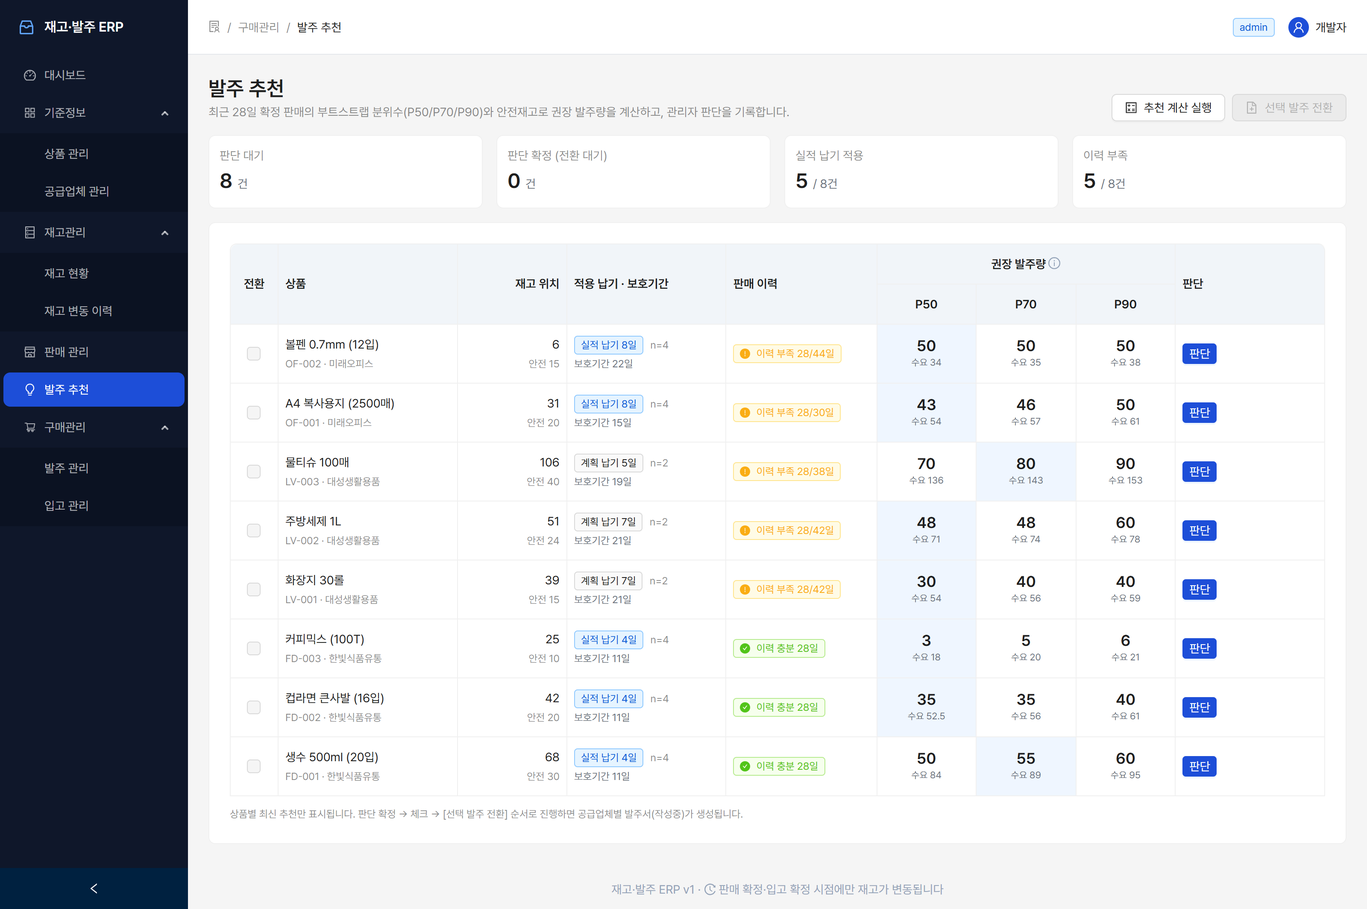
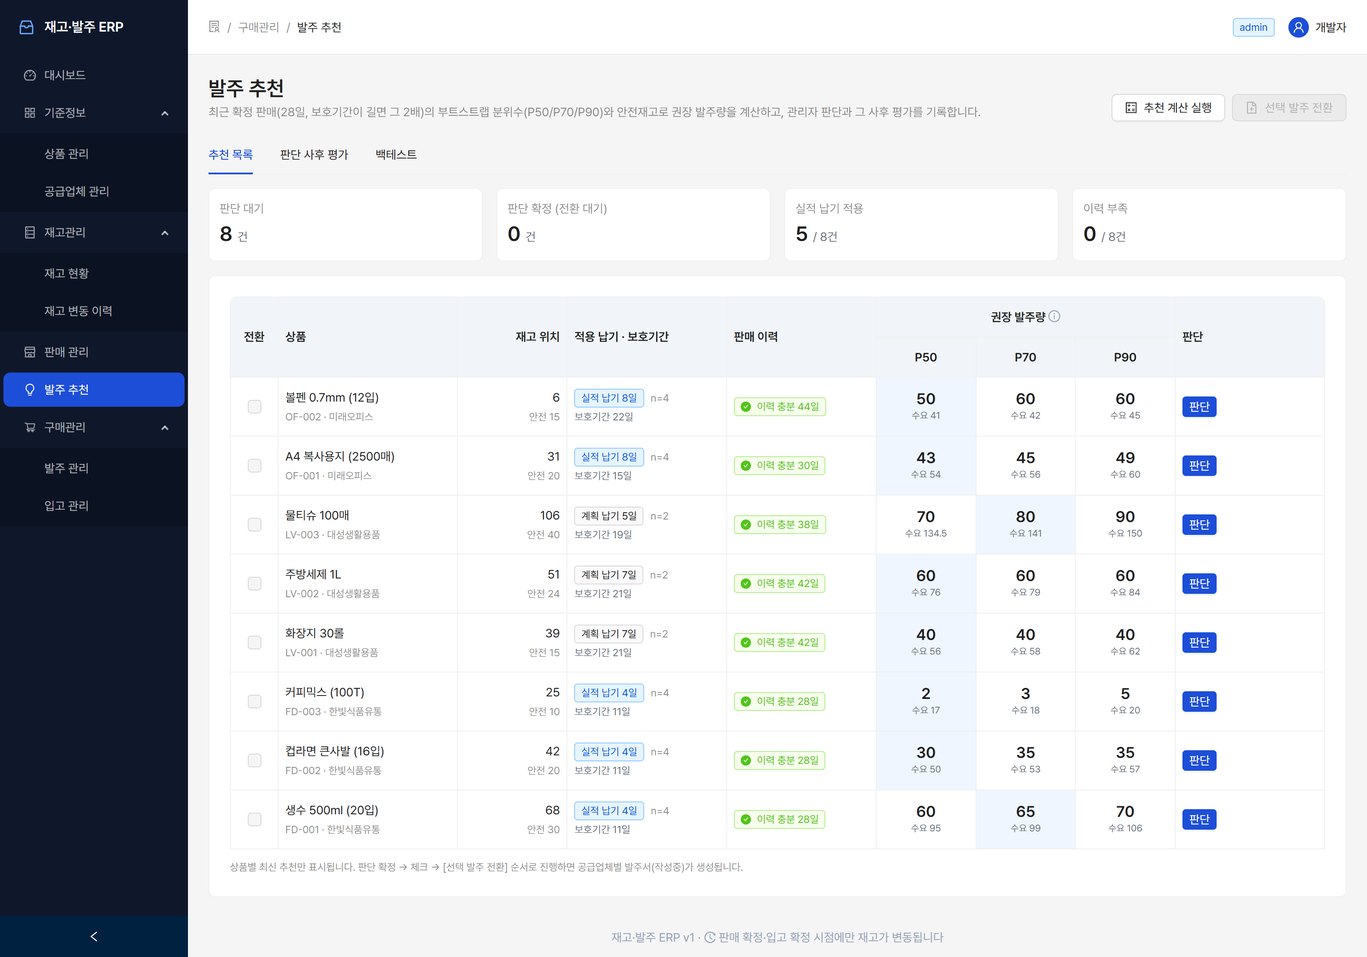
백테스트 기능 추가 (과거 기준일별 재계산 → 실제 수요와 비교)
- POST /api/recommendations/backtest: 기준일마다 그 전날까지의 판매와 그 이전 입고 실적만으로
  수요 분위수를 다시 계산(미래 정보 미사용)하고, 보호기간 동안의 실제 판매량과 비교. 읽기 전용
- 전략별 요약: 분위수 적중률(명목 대비), 목표재고 충족률(서비스 수준), 평균 부족·과잉량, MAE
- 화면: 발주 추천 '백테스트' 탭
- 검증 9개 항목 추가 (미래 정보 차단, 재현성, 읽기 전용 등, 총 153개)
- 발표용 캡처 최신 화면으로 교체

diff --git a/erp-frontend/src/components/BacktestPanel.jsx b/erp-frontend/src/components/BacktestPanel.jsx
@@ -1,0 +1,114 @@
+import { useState } from 'react';
+import { Alert, App, Button, Card, DatePicker, Flex, InputNumber, Table, Tag, Tooltip, Typography } from 'antd';
+import { ExperimentOutlined, InfoCircleOutlined } from '@ant-design/icons';
+import dayjs from 'dayjs';
+import { api } from '../api/client';
+import { fmtNum } from '../utils';
+
+const fmtPct = (v) => (v === null || v === undefined ? '-' : `${Number(v).toFixed(1)}%`);
+const fmtDec = (v) => (v === null || v === undefined ? '-' : Number(v).toLocaleString('ko-KR', { maximumFractionDigits: 2 }));
+
+// 백테스트 탭: 과거 기준일마다 그 시점까지의 정보만으로 수요 분위수를 다시 계산해 실제 수요와 비교 (읽기 전용)
+export default function BacktestPanel() {
+  const { message } = App.useApp();
+  const [range, setRange] = useState([dayjs().subtract(35, 'day'), dayjs().subtract(8, 'day')]);
+  const [step, setStep] = useState(3);
+  const [running, setRunning] = useState(false);
+  const [result, setResult] = useState(null);
+
+  const run = async () => {
+    setRunning(true);
+    try {
+      setResult(await api.post('/recommendations/backtest', {
+        from: range[0].format('YYYY-MM-DD'),
+        to: range[1].format('YYYY-MM-DD'),
+        step_days: step,
+      }));
+    } catch (err) {
+      message.error(err.message);
+    } finally {
+      setRunning(false);
+    }
+  };
+
+  const summaryRows = result ? ['p50', 'p70', 'p90'].map((k) => ({ key: k, strategy: k.toUpperCase(), ...result.summary[k] })) : [];
+  const summaryColumns = [
+    { title: '전략', dataIndex: 'strategy', width: 80, render: (v) => <Tag color="geekblue">{v}</Tag> },
+    { title: '사례 수', dataIndex: 'cases', width: 80, align: 'right', render: fmtNum },
+    {
+      title: <Tooltip title="실제 수요 ≤ 예측 분위수인 비율. 명목값(50·70·90%)에 가까울수록 예측이 잘 보정된 것">분위수 적중률 <InfoCircleOutlined style={{ color: '#94a3b8' }} /></Tooltip>,
+      key: 'demand', width: 160, align: 'right',
+      render: (_, r) => <>{fmtPct(r.demand_coverage_pct)} <Typography.Text type="secondary" style={{ fontSize: 12 }}>(명목 {r.nominal_pct}%)</Typography.Text></>,
+    },
+    {
+      title: <Tooltip title="실제 수요 ≤ 목표재고(예측 + 안전재고)인 비율. 목표재고까지 채웠다면 품절이 없었을 비율(서비스 수준)">목표재고 충족률 <InfoCircleOutlined style={{ color: '#94a3b8' }} /></Tooltip>,
+      dataIndex: 'target_coverage_pct', width: 140, align: 'right', render: (v) => <b>{fmtPct(v)}</b>,
+    },
+    { title: '평균 부족량', dataIndex: 'avg_shortage', width: 110, align: 'right', render: fmtDec },
+    { title: '평균 과잉량', dataIndex: 'avg_excess', width: 110, align: 'right', render: fmtDec },
+    { title: '수요 예측 평균 절대 오차', dataIndex: 'mae_demand', width: 170, align: 'right', render: fmtDec },
+  ];
+
+  const caseColumns = [
+    { title: '기준일', dataIndex: 'as_of', width: 105 },
+    { title: '상품', key: 'p', render: (_, c) => <span style={{ whiteSpace: 'nowrap' }}>{c.product_name}</span> },
+    {
+      title: '납기·보호기간', key: 'lt', width: 150,
+      render: (_, c) => <>{c.lead_time_source === 'actual_supplier_avg' ? '실적' : '계획'} {c.applied_lead_time_days}일 · {c.protection_days}일</>,
+    },
+    { title: '이력', key: 'h', width: 90, render: (_, c) => (c.insufficient_history ? <Tag color="warning">부족 {c.available_days}일</Tag> : `${c.available_days}일`) },
+    { title: 'P50', key: 'p50', width: 70, align: 'right', render: (_, c) => fmtDec(c.strategies.p50.demand) },
+    { title: 'P70', key: 'p70', width: 70, align: 'right', render: (_, c) => fmtDec(c.strategies.p70.demand) },
+    { title: 'P90', key: 'p90', width: 70, align: 'right', render: (_, c) => fmtDec(c.strategies.p90.demand) },
+    { title: '실제 수요', dataIndex: 'actual_demand', width: 90, align: 'right', render: (v) => <b>{fmtNum(v)}</b> },
+    {
+      title: '목표재고 충족 (P50·P70·P90)', key: 'cov', width: 210,
+      render: (_, c) => ['p50', 'p70', 'p90'].map((k) => (
+        <Tag key={k} color={c.strategies[k].target_covered ? 'green' : 'red'}>{k.toUpperCase()} {c.strategies[k].target_covered ? '충족' : `부족 ${fmtDec(c.strategies[k].shortage)}`}</Tag>
+      )),
+    },
+  ];
+
+  return (
+    <>
+      <Card style={{ marginBottom: 16 }}>
+        <Flex gap={16} align="center" wrap>
+          <span>기준일 범위</span>
+          <DatePicker.RangePicker value={range} onChange={(v) => v && setRange(v)} allowClear={false} disabledDate={(d) => d.isAfter(dayjs())} />
+          <span>간격</span>
+          <InputNumber min={1} max={90} value={step} onChange={(v) => setStep(v ?? 1)} suffix="일" style={{ width: 100 }} />
+          <Button type="primary" icon={<ExperimentOutlined />} loading={running} onClick={run}>백테스트 실행</Button>
+        </Flex>
+        <Typography.Text type="secondary" style={{ display: 'block', marginTop: 12, fontSize: 12 }}>
+          각 기준일마다 그 전날까지의 확정 판매와 그 이전 입고 실적만으로 수요 분위수를 다시 계산하고(미래 정보 미사용),
+          기준일부터 보호기간 동안의 실제 확정 판매량과 비교합니다. 보호기간이 아직 끝나지 않은 기준일은 제외합니다. 결과는 저장되지 않습니다.
+        </Typography.Text>
+      </Card>
+
+      {result && (
+        <>
+          <Alert
+            type="info"
+            showIcon
+            style={{ marginBottom: 16 }}
+            message={`기준일 ${result.params.from} ~ ${result.params.to} (${result.params.step_days}일 간격, ${result.params.dates}개) × 상품 ${result.params.products}개 → 평가 사례 ${result.cases.length}건`}
+            description={`제외: 보호기간 미경과 ${result.skipped.not_evaluable}건, 판매 이력 없음 ${result.skipped.no_history}건`}
+          />
+          <Card title="전략별 백테스트 결과" style={{ marginBottom: 16 }}>
+            <Table rowKey="key" columns={summaryColumns} dataSource={summaryRows} pagination={false} size="middle" scroll={{ x: 'max-content' }} />
+          </Card>
+          <Card title={`사례별 결과 (${result.cases.length}건)`}>
+            <Table
+              rowKey={(c) => `${c.product_id}-${c.as_of}`}
+              columns={caseColumns}
+              dataSource={result.cases}
+              size="small"
+              pagination={{ pageSize: 15 }}
+              scroll={{ x: 'max-content' }}
+            />
+          </Card>
+        </>
+      )}
+    </>
+  );
+}

diff --git a/erp-backend/src/services/backtest.js b/erp-backend/src/services/backtest.js
@@ -1,0 +1,92 @@
+// 백테스트 (DB 접근 없는 순수 함수).
+// 과거 기준일 D마다 "D 시점에 알 수 있었던 정보만으로" 수요 분위수를 다시 계산하고,
+// D부터 보호기간 동안의 실제 확정 판매량과 비교한다. 미래 정보(D 이후 판매·입고)는 계산에 쓰지 않는다.
+//
+// 평가는 재고 위치(과거 시점 복원 불가) 대신 목표재고 기준으로 한다:
+//   목표재고 = 예측 수요(분위수) + 안전재고. 목표재고까지 채웠다면 실제 수요 > 목표재고일 때만 품절.
+const { bootstrapDemand } = require('./forecast');
+
+const STRATEGIES = ['p50', 'p70', 'p90'];
+const toUtc = (s) => new Date(`${s}T00:00:00Z`);
+const addDays = (s, n) => { const d = toUtc(s); d.setUTCDate(d.getUTCDate() + n); return d.toISOString().slice(0, 10); };
+const daysBetween = (a, b) => Math.round((toUtc(b) - toUtc(a)) / 86400000);
+const round2 = (v) => Math.round(v * 100) / 100;
+
+// 상품·기준일로 정해지는 시드 → 같은 데이터면 백테스트 결과가 항상 같다 (재현성)
+const seedOf = (productId, asOf) => (productId * 100003 + Math.round(toUtc(asOf) / 86400000)) % 2147483647;
+
+/**
+ * 한 상품·한 기준일의 백테스트 사례.
+ * @param {object} p        상품 (product_id, sku, product_name, planned_lead_time_days, review_period_days, safety_stock_qty)
+ * @param {string} asOf     기준일 'YYYY-MM-DD'
+ * @param {object} daily    { 'YYYY-MM-DD': qty } 확정 판매 일별 합계 (전 기간)
+ * @param {string|null} firstSale 최초 확정 판매일
+ * @param {number[]} leadSamples  기준일 이전에 확정된 입고의 실제 납기 표본(일)
+ * @param {string} today    오늘 (평가 가능 여부 판단)
+ * @param {object} rules    { baseDays, maxDays, minRequired, minLeadSamples }
+ */
+function backtestCase(p, asOf, daily, firstSale, leadSamples, today, rules) {
+  const useActual = leadSamples.length >= rules.minLeadSamples;
+  const leadTime = useActual
+    ? Math.round(leadSamples.reduce((a, b) => a + b, 0) / leadSamples.length)
+    : p.planned_lead_time_days;
+  const T = leadTime + p.review_period_days;
+  const evalEnd = addDays(asOf, T - 1);
+  if (evalEnd >= today) return { skip: 'not_evaluable' }; // 보호기간이 아직 끝나지 않음
+
+  const requiredDays = Math.max(T * 2, rules.minRequired);
+  const windowDays = Math.min(Math.max(rules.baseDays, requiredDays), rules.maxDays);
+  const windowEnd = addDays(asOf, -1);
+  const windowStart = addDays(windowEnd, -(windowDays - 1));
+  if (!firstSale || firstSale > windowEnd) return { skip: 'no_history' };
+  const start = firstSale > windowStart ? firstSale : windowStart;
+  const n = daysBetween(start, windowEnd) + 1;
+  const series = Array.from({ length: n }, (_, i) => daily[addDays(start, i)] ?? 0);
+  if (series.every((v) => v === 0)) return { skip: 'no_history' };
+
+  const demand = bootstrapDemand(series, T, seedOf(p.product_id, asOf));
+  let actual = 0;
+  for (let i = 0; i < T; i++) actual += daily[addDays(asOf, i)] ?? 0;
+
+  const perStrategy = {};
+  for (const s of STRATEGIES) {
+    const target = round2(demand[s] + p.safety_stock_qty);
+    perStrategy[s] = {
+      demand: demand[s],
+      target,
+      demand_covered: actual <= demand[s],   // 분위수 적중 (보정 확인용)
+      target_covered: actual <= target,      // 목표재고 충족 (품절 없음)
+      shortage: round2(Math.max(0, actual - target)),
+      excess: round2(Math.max(0, target - actual)),
+    };
+  }
+  return {
+    product_id: p.product_id, sku: p.sku, product_name: p.product_name,
+    as_of: asOf, eval_end: evalEnd, lead_time_source: useActual ? 'actual_supplier_avg' : 'planned',
+    applied_lead_time_days: leadTime, protection_days: T, window_days: windowDays, available_days: n,
+    insufficient_history: n < requiredDays, safety_stock_qty: p.safety_stock_qty,
+    actual_demand: actual, strategies: perStrategy,
+  };
+}
+
+// 전략별 요약: 목표재고 충족률(서비스 수준), 평균 부족·과잉량, 분위수 적중률, P50 절대 오차
+function summarizeBacktest(cases) {
+  const out = {};
+  for (const s of STRATEGIES) {
+    const n = cases.length;
+    const rate = (key) => (n ? round2((cases.filter((c) => c.strategies[s][key]).length / n) * 100) : null);
+    const avg = (key) => (n ? round2(cases.reduce((a, c) => a + c.strategies[s][key], 0) / n) : null);
+    out[s] = {
+      cases: n,
+      target_coverage_pct: rate('target_covered'),
+      demand_coverage_pct: rate('demand_covered'),
+      nominal_pct: { p50: 50, p70: 70, p90: 90 }[s],
+      avg_shortage: avg('shortage'),
+      avg_excess: avg('excess'),
+      mae_demand: n ? round2(cases.reduce((a, c) => a + Math.abs(c.strategies[s].demand - c.actual_demand), 0) / n) : null,
+    };
+  }
+  return out;
+}
+
+module.exports = { backtestCase, summarizeBacktest, addDays };

diff --git a/erp-backend/src/controllers/recommendationsController.js b/erp-backend/src/controllers/recommendationsController.js
@@ -3,6 +3,7 @@ const pool = require('../db/pool');
 const withTransaction = require('../db/transaction');
 const httpError = require('../utils/httpError');
 const { BOOTSTRAP_ITERATIONS, bootstrapDemand, orderQuantity } = require('../services/forecast');
+const { backtestCase, summarizeBacktest, addDays: addBt } = require('../services/backtest');
 
 // 수요 집계 기간: 어제까지 max(28일, 보호기간 × 2)일 (오늘은 집계가 끝나지 않아 제외).
 // 이력 충분 기준(보호기간 × 2, 최소 14일)과 조회 기간을 일치시켜, 보호기간이 긴 상품도
@@ -300,4 +301,79 @@ async function list(req, res) {
   res.json(rows.map(normalize));
 }
 
-module.exports = { calculate, list };
+// POST /api/recommendations/backtest  { from?, to?, step_days?, product_ids? }
+// 과거 기준일마다 그 시점까지의 정보만으로 수요 분위수를 다시 계산해 실제 수요와 비교한다 (읽기 전용, 저장 안 함).
+// 기본: 오늘 35일 전 ~ 8일 전, 3일 간격.
+async function backtest(req, res) {
+  const { from, to, step_days: stepDays = 3, product_ids: productIds } = req.body ?? {};
+  const isDate = (v) => typeof v === 'string' && /^\d{4}-\d{2}-\d{2}$/.test(v);
+  if ((from !== undefined && !isDate(from)) || (to !== undefined && !isDate(to))) {
+    throw httpError(400, 'from, to는 YYYY-MM-DD 형식이어야 합니다.');
+  }
+  if (!Number.isInteger(stepDays) || stepDays < 1 || stepDays > 90) throw httpError(400, 'step_days는 1~90 사이의 정수여야 합니다.');
+  if (productIds !== undefined && (!Array.isArray(productIds) || !productIds.every((v) => Number.isInteger(v) && v > 0))) {
+    throw httpError(400, 'product_ids는 1 이상의 정수로 된 배열이어야 합니다.');
+  }
+
+  const { rows: t } = await pool.query(`SELECT CURRENT_DATE::text AS today`);
+  const today = t[0].today;
+  const fromDate = from ?? addBt(today, -35);
+  const toDate = to ?? addBt(today, -8);
+  if (fromDate > toDate) throw httpError(400, 'from이 to보다 늦을 수 없습니다.');
+  const dates = [];
+  for (let d = fromDate; d <= toDate && dates.length < 200; d = addBt(d, stepDays)) dates.push(d);
+
+  const { rows: products } = await pool.query(
+    `SELECT product_id, sku, product_name, supplier_id, planned_lead_time_days, review_period_days, safety_stock_qty
+       FROM products
+      WHERE supplier_id IS NOT NULL AND ${productIds ? 'product_id = ANY($1::int[])' : 'is_active'}
+      ORDER BY product_id`,
+    productIds ? [productIds] : []
+  );
+  const ids = products.map((p) => p.product_id);
+  const { rows: sales } = await pool.query(
+    `SELECT si.product_id, s.sale_date, SUM(si.quantity)::int AS qty
+       FROM sales s JOIN sale_items si ON si.sale_id = s.sale_id
+      WHERE s.status = 'confirmed' AND si.product_id = ANY($1::int[])
+      GROUP BY si.product_id, s.sale_date`,
+    [ids]
+  );
+  const { rows: receipts } = await pool.query(
+    `SELECT o.supplier_id, r.receipt_date, (r.receipt_date - o.order_date) AS lead_days
+       FROM receipts r JOIN purchase_orders o ON o.purchase_order_id = r.purchase_order_id
+      WHERE r.status = 'confirmed' AND r.receipt_date >= o.order_date`
+  );
+
+  const daily = {};
+  const firstSale = {};
+  for (const r of sales) {
+    (daily[r.product_id] ??= {})[r.sale_date] = r.qty;
+    if (!firstSale[r.product_id] || r.sale_date < firstSale[r.product_id]) firstSale[r.product_id] = r.sale_date;
+  }
+  const rules = {
+    baseDays: BASE_HISTORY_DAYS, maxDays: MAX_HISTORY_DAYS, minRequired: MIN_REQUIRED_DAYS, minLeadSamples: MIN_LEAD_TIME_SAMPLES,
+  };
+
+  const cases = [];
+  const skipped = { not_evaluable: 0, no_history: 0 };
+  for (const asOf of dates) {
+    for (const p of products) {
+      // 기준일 이전에 확정된 입고만 납기 표본으로 사용 (미래 정보 차단)
+      const leadSamples = receipts
+        .filter((r) => r.supplier_id === p.supplier_id && r.receipt_date < asOf)
+        .map((r) => r.lead_days);
+      const c = backtestCase(p, asOf, daily[p.product_id] ?? {}, firstSale[p.product_id] ?? null, leadSamples, today, rules);
+      if (c.skip) skipped[c.skip] += 1;
+      else cases.push(c);
+    }
+  }
+
+  res.json({
+    params: { from: fromDate, to: toDate, step_days: stepDays, dates: dates.length, products: products.length },
+    summary: summarizeBacktest(cases),
+    skipped,
+    cases,
+  });
+}
+
+module.exports = { calculate, list, backtest };

diff --git a/erp-backend/tests/e2e-decision-history.js b/erp-backend/tests/e2e-decision-history.js
@@ -118,6 +118,24 @@ const calc = async (pid) => (await must('POST', '/recommendations/calculate', { 
     sm.mae_manager_on_modified === (20 + 0) / 2 && sm.mae_system_on_modified === (0 + eM.system_error) / 2, sm);
   check('상품 필터', (await must('GET', `/decisions/evaluation?product_id=${M}`)).summary.total === 1);
 
+  console.log('[백테스트: 기준일까지의 정보만 사용]');
+  const btA = await must('POST', '/recommendations/backtest', { from: ymd(25), to: ymd(13), step_days: 4, product_ids: [A] });
+  check('A: 기준일 4개 × 1상품 = 4사례 (보호기간 9일 모두 경과)', btA.cases.length === 4 && btA.params.dates === 4, btA.params);
+  check('A: 일정 수요 → 모든 분위수 = 45, 실제 45', btA.cases.every((c) => c.strategies.p50.demand === 45 && c.strategies.p90.demand === 45 && c.actual_demand === 45), btA.cases[0]);
+  check('A: 목표재고 충족 100%, 부족 0, 과잉 = 안전재고 10', btA.summary.p70.target_coverage_pct === 100 && btA.summary.p70.avg_shortage === 0 && btA.summary.p70.avg_excess === 10, btA.summary.p70);
+  const btM = await must('POST', '/recommendations/backtest', { from: ymd(20), to: ymd(20), product_ids: [M] });
+  const cM = btM.cases[0];
+  check('M: 급증 시작일 기준 → 과거 2개/일만 보고 예측(18), 실제 72 (미래 정보 미사용)', cM.strategies.p90.demand === 18 && cM.actual_demand === 72 && cM.strategies.p90.target_covered === false, cM);
+  check('M: 부족량 = 72 − (18 + 안전 5) = 49', cM.strategies.p90.shortage === 49, cM.strategies.p90);
+  const btNow = await must('POST', '/recommendations/backtest', { from: ymd(3), to: ymd(3), product_ids: [A] });
+  check('보호기간이 안 끝난 기준일은 제외', btNow.cases.length === 0 && btNow.skipped.not_evaluable === 1, btNow.skipped);
+  const btAgain = await must('POST', '/recommendations/backtest', { from: ymd(25), to: ymd(13), step_days: 4, product_ids: [A] });
+  check('같은 조건 재실행 → 같은 결과 (재현성)', JSON.stringify(btAgain.summary) === JSON.stringify(btA.summary));
+  check('잘못된 날짜 형식 400', (await call('POST', '/recommendations/backtest', { from: '2026/10/01' })).status === 400);
+  const recCount = (await db.query('SELECT COUNT(*)::int AS n FROM replenishment_recommendations')).rows[0].n;
+  await must('POST', '/recommendations/backtest', {});
+  check('백테스트는 추천을 저장하지 않음 (읽기 전용)', (await db.query('SELECT COUNT(*)::int AS n FROM replenishment_recommendations')).rows[0].n === recCount);
+
   await db.end();
   console.log(`\n결과: ${pass} 통과 / ${fail} 실패`);
   process.exit(fail ? 1 : 0);

diff --git a/erp-frontend/src/pages/Recommendations.jsx b/erp-frontend/src/pages/Recommendations.jsx
@@ -12,6 +12,7 @@ import { api } from '../api/client';
 import useApi from '../hooks/useApi';
 import PageHeader from '../components/PageHeader';
 import { DecisionEvaluationPanel, PreviousDecisions } from '../components/DecisionReview';
+import BacktestPanel from '../components/BacktestPanel';
 import { CURRENT_USER } from '../config';
 import { fmtDateTime, fmtNum } from '../utils';
 
@@ -546,6 +547,7 @@ export default function Recommendations() {
             ),
           },
           { key: 'evaluation', label: '판단 사후 평가', children: <DecisionEvaluationPanel /> },
+          { key: 'backtest', label: '백테스트', children: <BacktestPanel /> },
         ]}
       />
 

diff --git a/erp-backend/src/routes/recommendations.js b/erp-backend/src/routes/recommendations.js
@@ -6,5 +6,6 @@ const router = express.Router();
 
 router.get('/', asyncHandler(ctrl.list));
 router.post('/calculate', asyncHandler(ctrl.calculate));
+router.post('/backtest', asyncHandler(ctrl.backtest));
 
 module.exports = router;

diff --git a/erp-frontend/README.md b/erp-frontend/README.md
@@ -27,7 +27,7 @@ npm run dev                             # http://localhost:5173
 | 재고 변동 이력 | `/stock-movements` | 원장 조회 (상품·유형 필터), 취소 행은 ↩ 표시 |
 | 판매 관리 | `/sales` | 전표 작성(다품목) → 확정(재고 차감) / 취소(반대 부호 복원), 재고 부족 시 품목별 안내 |
 | 발주 관리 | `/purchase-orders` | 발주서 작성(공급업체별 품목 필터, MOQ·배수 경고) → 확정 → 입고 등록, 품목별 입고 진행률 |
-| 발주 추천 | `/recommendations` | 추천 계산 실행, 상품별 P50/P70/P90 권장량 비교(기본 전략 강조), 계산 근거(실적/계획 납기·표본 수, 보호기간, 이력 충분 여부), 상세에서 전략 비교 카드·일별 판매·판단 입력(수정 시 사유 필수)·반려, 판단 확정 건 선택 → 공급업체별 발주서 일괄 전환. 상세에 같은 상품의 **이전 판단 이력**(수정 폭·사유·사후 평가), **판단 사후 평가** 탭(시스템 추천 vs 관리자 수정 중 실제 수요에 더 가까운 쪽) |
+| 발주 추천 | `/recommendations` | 추천 계산 실행, 상품별 P50/P70/P90 권장량 비교(기본 전략 강조), 계산 근거(실적/계획 납기·표본 수, 보호기간, 이력 충분 여부), 상세에서 전략 비교 카드·일별 판매·판단 입력(수정 시 사유 필수)·반려, 판단 확정 건 선택 → 공급업체별 발주서 일괄 전환. 상세에 같은 상품의 **이전 판단 이력**(수정 폭·사유·사후 평가), **판단 사후 평가** 탭(시스템 추천 vs 관리자 수정 중 실제 수요에 더 가까운 쪽), **백테스트** 탭(과거 기준일별 재계산 → 전략별 분위수 적중률·목표재고 충족률·부족/과잉량) |
 | 입고 관리 | `/receipts` | 발주서 기준 부분 입고 등록(잔량 기본 입력) → 확정(재고 증가) |
 
 ## 구조

diff --git a/erp-backend/API_SPEC.md b/erp-backend/API_SPEC.md
@@ -114,6 +114,17 @@
 | GET | /api/recommendations | 추천 스냅샷 목록, 최신순 (쿼리: `?product_id=1`, `?latest=true`(상품별 최신 1건), `?limit=100`(최대 1000)). 각 행에 최신 판단(`decision_id, selected_strategy, final_qty, decision_status, purchase_order_id`) 포함 |
 
 **calculate 바디(선택)**: `{ product_ids?: number[] }` — 생략 시 사용 중인 전 상품
+
+| Method | Path | 설명 |
+|---|---|---|
+| POST | /api/recommendations/backtest | 백테스트 (읽기 전용, 저장 안 함). 바디: `{ from?, to?, step_days?(기본 3), product_ids? }`, 기본 기준일 범위는 오늘 35일 전 ~ 8일 전 |
+
+**백테스트** — 과거 기준일 D마다 D 시점에 알 수 있었던 정보만으로 다시 계산해 실제와 비교
+- 수요: D 전날까지의 확정 판매(조회 기간 max(28일, 보호기간×2)). 적용 납기: D 이전에 확정된 입고 실적만(3건 이상이면 평균, 아니면 계획 납기). 시드는 상품·기준일로 고정해 재현 가능
+- 실제 수요 = D부터 보호기간 동안의 확정 판매량. 보호기간이 아직 끝나지 않은 기준일은 제외(`skipped.not_evaluable`)
+- 재고 위치는 과거 시점으로 복원할 수 없으므로 목표재고(예측 수요 + 안전재고) 기준으로 평가
+- 전략별 요약: 분위수 적중률(실제 ≤ 예측, 명목 50·70·90%와 비교), 목표재고 충족률(실제 ≤ 목표재고, 서비스 수준), 평균 부족량·과잉량, 수요 예측 평균 절대 오차
+- 응답: `{ params, summary: { p50, p70, p90 }, skipped, cases }`
 **응답**: `{ created: [추천 스냅샷], not_forecastable: [{ product_id, sku, status: '예측 불가', reason, safety_stock_qty, on_hand_qty, outstanding_po_qty }], skipped: [{ product_id, sku, reason }] }`
 
 **계산 규칙**

diff --git a/erp-backend/README.md b/erp-backend/README.md
@@ -50,7 +50,7 @@ npm test
 ```
 
 별도 테스트 DB(`erp_test`)를 새로 만들고 4001번 포트로 서버를 띄운 뒤 API 시나리오 4묶음(기본 ERP 51개, 발주 추천·판단 53개,
-유지보수 기능 21개, 이력 조회 기간·이전 판단·사후 평가 19개 — 총 144개 항목)을 실행하고, 끝나면 서버를 끄고 테스트 DB를 삭제한다. `.env`의 운영·시연 DB는 건드리지 않는다.
+유지보수 기능 21개, 이력 조회 기간·이전 판단·사후 평가·백테스트 28개 — 총 153개 항목)을 실행하고, 끝나면 서버를 끄고 테스트 DB를 삭제한다. `.env`의 운영·시연 DB는 건드리지 않는다.
 검증 스크립트는 `tests/`, 스키마 원본은 `sql/erp_schema.sql`.
 
 ## 빠른 동작 확인
